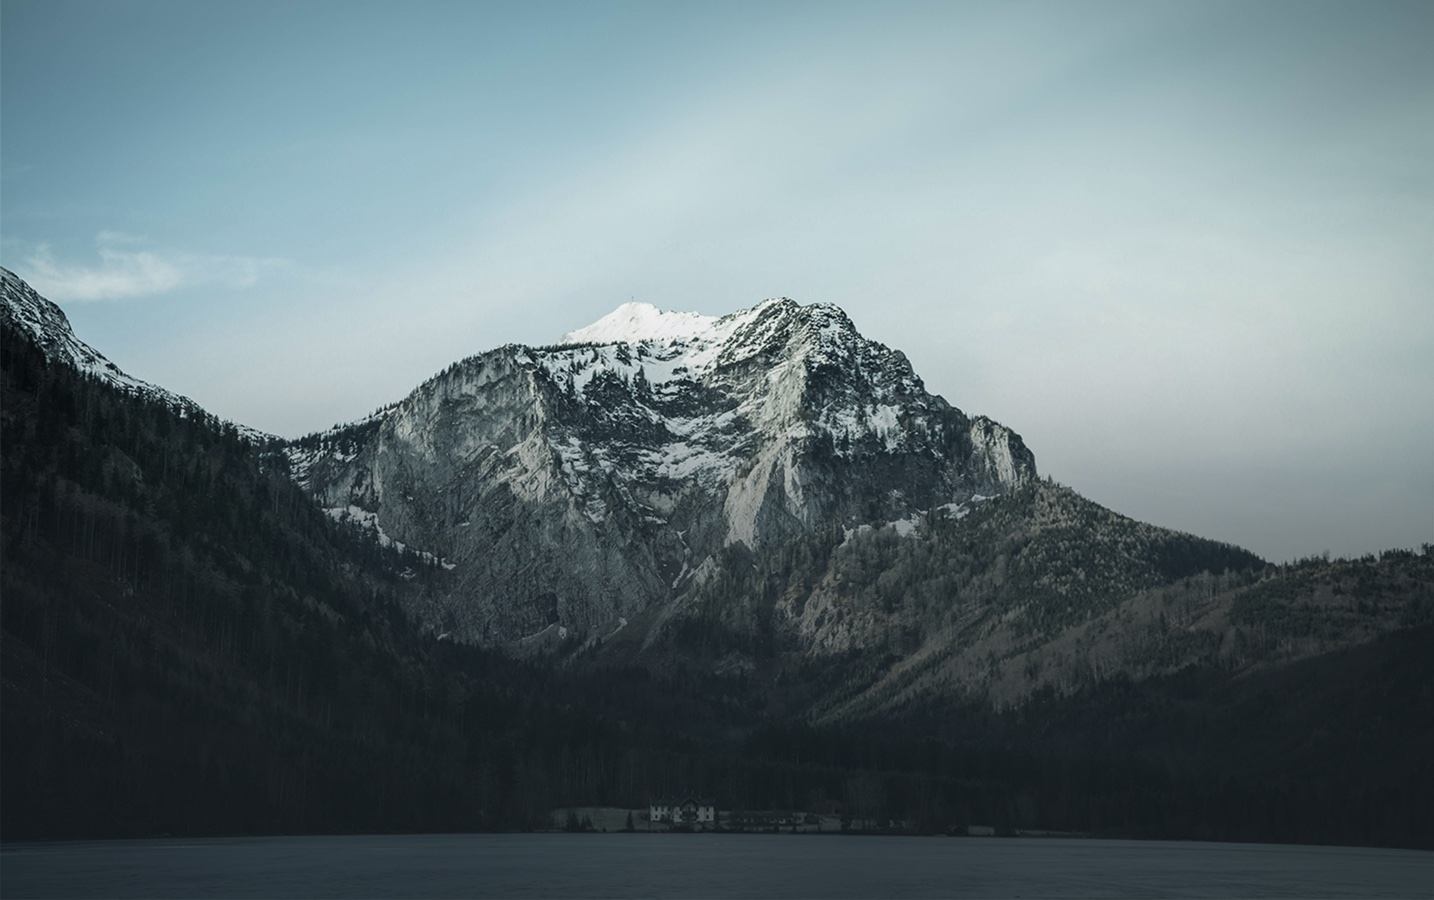
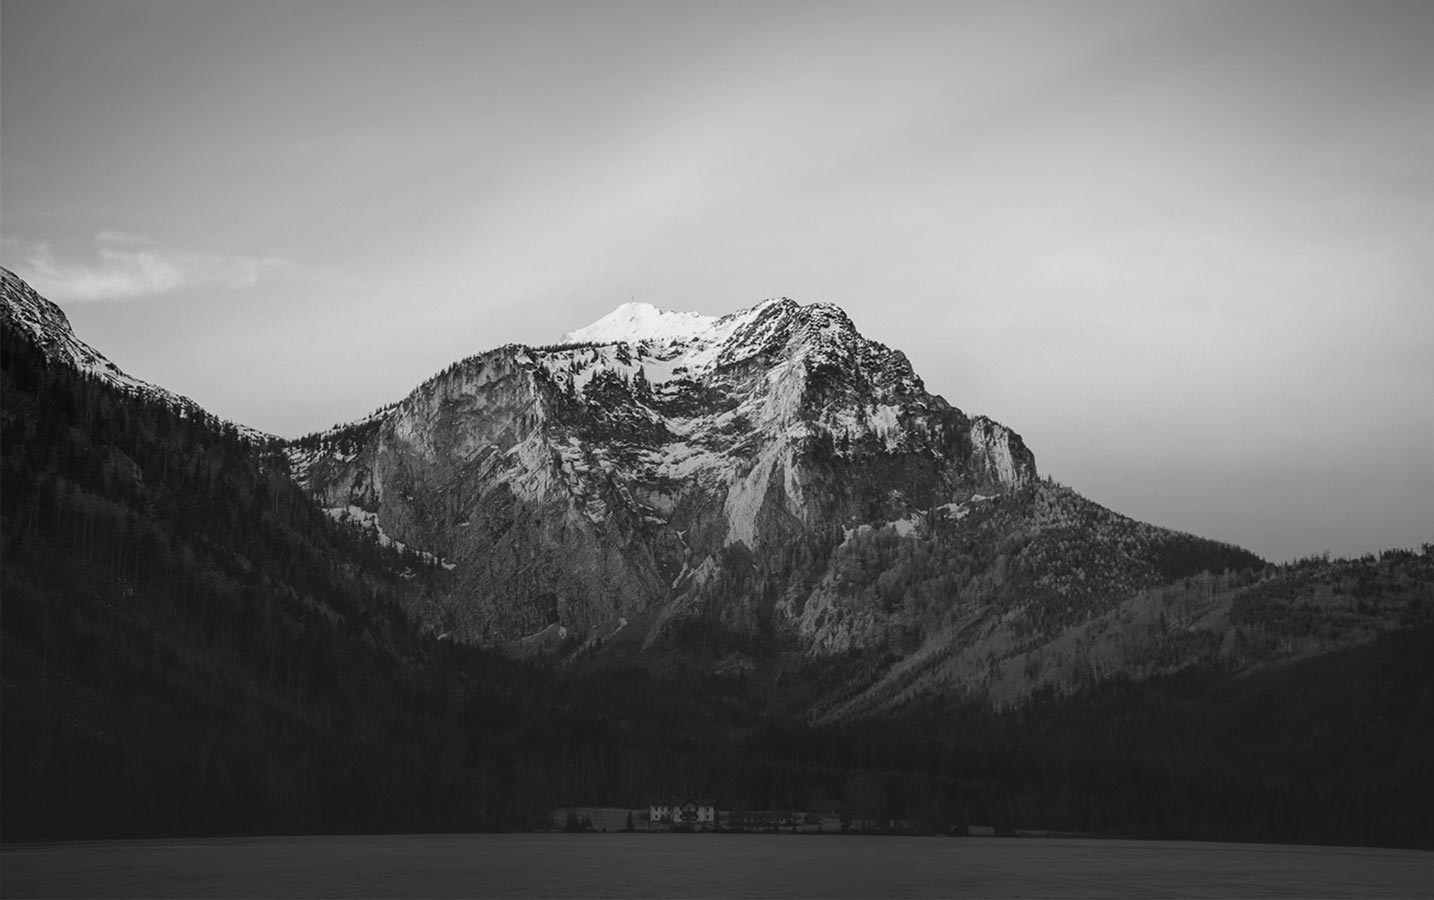
Added "resume" class to the download resume button. Changed background image color.

Changed region(s): [[0.0, 0.0, 0.5216, 0.3111]]

diff --git a/index.html b/index.html
@@ -39,7 +39,7 @@
 		Employed in the tech support field for some time now,
 		I am finally ready to go forward and change my career into web development.</br></br>
 		This online portfolio is a showcase of my skills and motivation.</p></br>
-		<button>Download Resume</button>
+		<button class"resume">DOWNLOAD RESUME</button>
 	</div>
 	<div class="about-right">
 		<img src="images/portrait.jpg" alt="">
